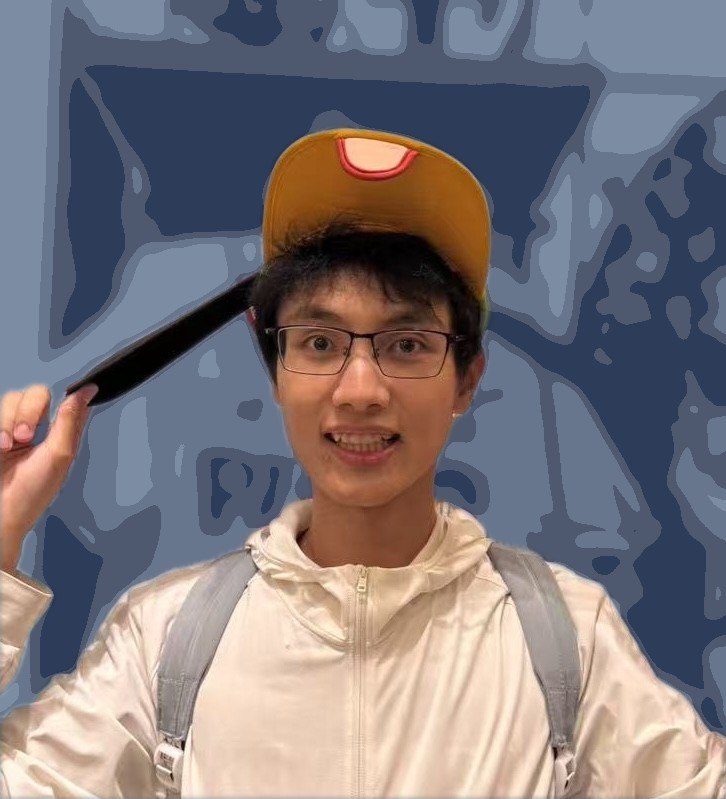
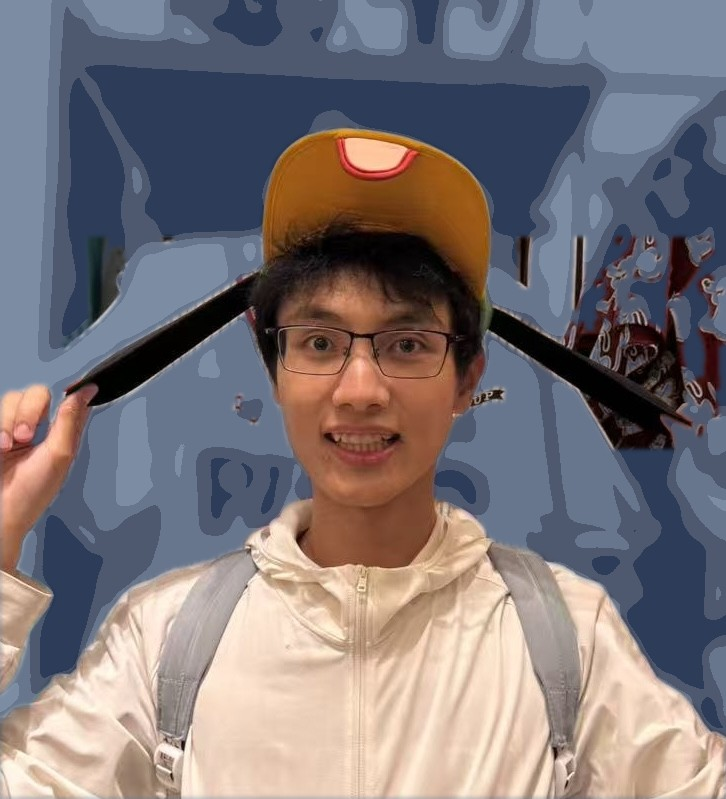
Restore both ears, hide the photo until the dots draw, type a touch larger
- Portrait composite keeps truly black pixels in the ear band as subject,
  so the right ear is no longer flattened into the background
- The underlying photo starts hidden; a noscript stylesheet shows it only
  when JavaScript is off, so refreshes no longer flash the original
- Base type 0.9rem (1.04rem on phones), paragraphs and card text up slightly

diff --git a/assets/led.css b/assets/led.css
@@ -177,7 +177,7 @@ a:hover {
   margin: 0.1rem 0 1.2rem 0;
 }
 
-.home-paragraph { font-size: 0.94rem; line-height: 1.7; }
+.home-paragraph { font-size: 0.98rem; line-height: 1.7; }
 
 .typewriter-line {
   border-top: 2px dotted var(--led-ink-faint);
@@ -267,8 +267,9 @@ main h2::before {
   transition: opacity 0.4s ease;
 }
 
-/* once the dots are drawn, the photo stays hidden (it only shows if JS fails) */
-.dot-portrait.is-ready img.profile-img { opacity: 0; pointer-events: none; }
+/* the photo is hidden from the start so it never flashes before the dots
+   draw; assets/nojs.css (loaded via <noscript>) shows it when JS is off */
+.dot-portrait img.profile-img { opacity: 0; pointer-events: none; }
 
 /* ---------- Research timeline ---------- */
 
@@ -308,15 +309,15 @@ main h2::before {
 
 .r-entry, .r-entry:hover { background: none; box-shadow: none; color: var(--led-ink); }
 
-.r-title { font-size: 1.1rem; font-weight: 800; line-height: 1.35; letter-spacing: 0.01em; }
-.r-desc { color: #a3adb6; font-size: 0.92rem; line-height: 1.65; }
+.r-title { font-size: 1.14rem; font-weight: 800; line-height: 1.35; letter-spacing: 0.01em; }
+.r-desc { color: #a3adb6; font-size: 0.95rem; line-height: 1.65; }
 .r-tags { color: var(--led-ink-dim); font-size: 0.86rem; letter-spacing: 0.04em; }
 
 .research-typewriter { font-size: 1rem; border-top: none; }
 
 /* ---------- Publications ---------- */
 
-.publications-content p { line-height: 1.7; font-size: 0.92rem; }
+.publications-content p { line-height: 1.7; font-size: 0.95rem; }
 .publications-content strong { color: var(--led-blue); font-weight: 700; }
 .venue { color: var(--led-ink-dim); font-style: italic; font-size: 0.97em; }
 

diff --git a/_includes/head.html b/_includes/head.html
@@ -36,6 +36,7 @@
   {%- endif -%}
   <link rel="stylesheet" href="{{ "/assets/custom.css" | relative_url }}">
   <link rel="stylesheet" href="{{ "/assets/led.css" | relative_url }}">
+  <noscript><link rel="stylesheet" href="{{ "/assets/nojs.css" | relative_url }}"></noscript>
   <script defer src="{{ "/assets/typewriter.js" | relative_url }}"></script>
   <script defer src="{{ "/assets/dotmatrix.js" | relative_url }}"></script>
 

diff --git a/assets/custom.css b/assets/custom.css
@@ -10,7 +10,7 @@
   --border-color: rgba(236, 230, 214, 0.3);
 
   /* global font scale (slightly larger than default, but not huge) */
-  --base-font-size: 0.86rem;
+  --base-font-size: 0.9rem;
 }
 
 html,
@@ -230,7 +230,7 @@ a {
 
 @media (max-width: 720px) {
   :root {
-    --base-font-size: 1rem;
+    --base-font-size: 1.04rem;
   }
 
   .container {

diff --git a/assets/nojs.css b/assets/nojs.css
@@ -1,0 +1,2 @@
+/* Loaded only when JavaScript is disabled: show the plain photo. */
+.dot-portrait img.profile-img { opacity: 1; }
